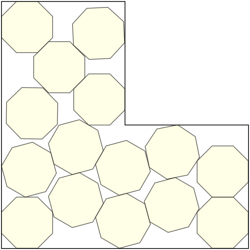
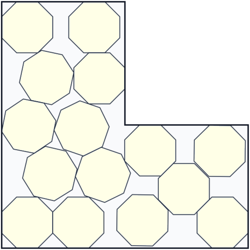
oct

Changed region(s): [[0.0, 0.0, 1.0, 1.0], [0.924, 0.672, 0.952, 0.7]]

diff --git a/packing/index.html b/packing/index.html
@@ -63,7 +63,7 @@
 <TD width=11%><center><A HREF="hexinL/" >
<IMG SRC="hexinL/hil.gif" width=100 height=100></center></A></TD>
 <TD width=11%><center><A HREF="octinL/" >
<IMG SRC="octinL/oil.gif" width=100 height=100></center></A></TD>
 <TD width=11%><center><A HREF="taninL/" >
<IMG SRC="taninL/til.gif" width=98 height=99></center></A></TD>
<TD width=11%><center><A HREF="dominL/" >
<IMG SRC="dominL/dil.gif" width=105 height=105></center></A></TD>
-<TD width=11%><center><A HREF="LinL/" >
<IMG SRC="LinL/lil.gif" width=99 height=100></center></A></TD>
</TR><TR>
<TD width=11%><center><font size=+1><b>Circles in L's</b></font>
<br>updated 1/14/26</TD>
<TD width=11%><center><font size=+1><b>Triangles in L's</b></font>
<br>updated 6/7/26</TD>
<TD width=11%><center><font size=+1><b>Squares in L's</b></font>
<br>updated 6/7/26</TD>
<TD width=11%><center><font size=+1><b>Pentagons in L's</b></font>
<br>updated 6/11/26</TD>
<TD width=11%><center><font size=+1><b>Hexagons in L's</b></font>
<br>updated 6/11/26</TD>
<TD width=11%><center><font size=+1><b>Octagons in L's</b></font>
<br>updated 6/15/26</TD>
<TD width=11%><center><font size=+1><b>Tans in L's</b></font>
<br>updated 7/23/12</TD>
<TD width=11%><center><font size=+1><b>Dominoes in L's</b></font>
<br>updated 4/9/26</TD>
<TD width=11%><center><font size=+1><b>L's in L's</b></font>
<br>updated 6/10/26</TD>
</TR></TABLE>


<TABLE BORDER=0 width=100% cellspacing=10><TR align=center>
<TD width=50%><center><A HREF="cirinel/" >
<IMG SRC="cirinel/el.gif" width=118 height=81></center></A></TD>
+<TD width=11%><center><A HREF="LinL/" >
<IMG SRC="LinL/lil.gif" width=99 height=100></center></A></TD>
</TR><TR>
<TD width=11%><center><font size=+1><b>Circles in L's</b></font>
<br>updated 1/14/26</TD>
<TD width=11%><center><font size=+1><b>Triangles in L's</b></font>
<br>updated 6/7/26</TD>
<TD width=11%><center><font size=+1><b>Squares in L's</b></font>
<br>updated 6/7/26</TD>
<TD width=11%><center><font size=+1><b>Pentagons in L's</b></font>
<br>updated 6/11/26</TD>
<TD width=11%><center><font size=+1><b>Hexagons in L's</b></font>
<br>updated 6/11/26</TD>
<TD width=11%><center><font size=+1><b>Octagons in L's</b></font>
<br>updated 6/18/26</TD>
<TD width=11%><center><font size=+1><b>Tans in L's</b></font>
<br>updated 7/23/12</TD>
<TD width=11%><center><font size=+1><b>Dominoes in L's</b></font>
<br>updated 4/9/26</TD>
<TD width=11%><center><font size=+1><b>L's in L's</b></font>
<br>updated 6/10/26</TD>
</TR></TABLE>


<TABLE BORDER=0 width=100% cellspacing=10><TR align=center>
<TD width=50%><center><A HREF="cirinel/" >
<IMG SRC="cirinel/el.gif" width=118 height=81></center></A></TD>
 <TD width=50%><center><A HREF="cirinttt/" >
<IMG SRC="cirinttt/ttt.gif" width=139 height=80></center></A></TD>
 </TR><TR>
<TD width=50%><center><font size=+1><b>Circles in<br>Arbitrary Ellipses</b></font>
<br>updated 6/8/07</TD>
<TD width=50%><center><font size=+1><b>Circles in<br>Arbitrary Triangles</b></font>
<br>updated 6/26/07</TD>
</TR></TABLE>
 

diff --git a/packing/octinL/index.html b/packing/octinL/index.html
@@ -25,7 +25,7 @@
 </table><hr>
 
 <table align=center cellpadding=10><tr align=center>
-<td><font size=+3>15.</font><br><img src="15.png"><br>s = 5.82397 +<br>Found by Jonathan Viquerat<br>in June 2026.
+<td><font size=+3>15.</font><br><img src="15.png"><br>s = 5.82253+<br>Found by Haowei Lin<br>in June 2026.
 <td>&nbsp;&nbsp;&nbsp;&nbsp;&nbsp;&nbsp;&nbsp;&nbsp;&nbsp;&nbsp;
<td><font size=+3>16.</font><br><img src="16.png"><br>s = 5.93197+<br>Found by Jonathan Viquerat<br>in June 2026.
 <td>&nbsp;&nbsp;&nbsp;&nbsp;&nbsp;&nbsp;&nbsp;&nbsp;&nbsp;&nbsp;
<td><font size=+3>17.</font><br><img src="17.png"><br>s = 6.10747+<br>Found by Jonathan Viquerat<br>in June 2026.
 </table><hr>